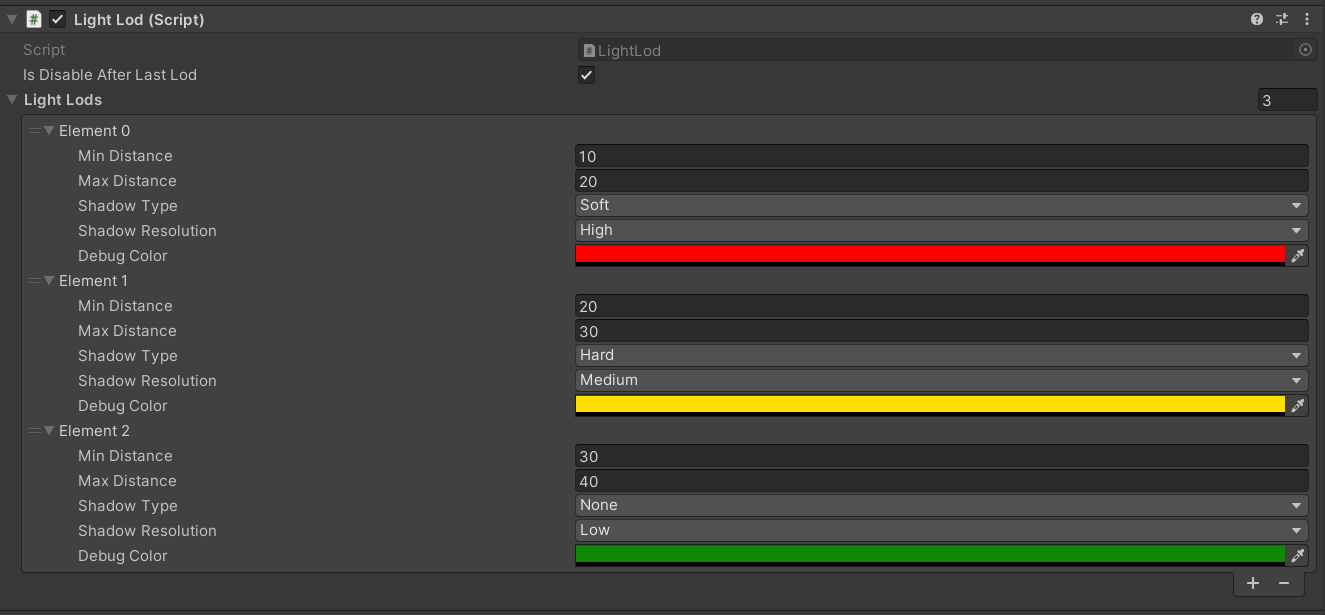
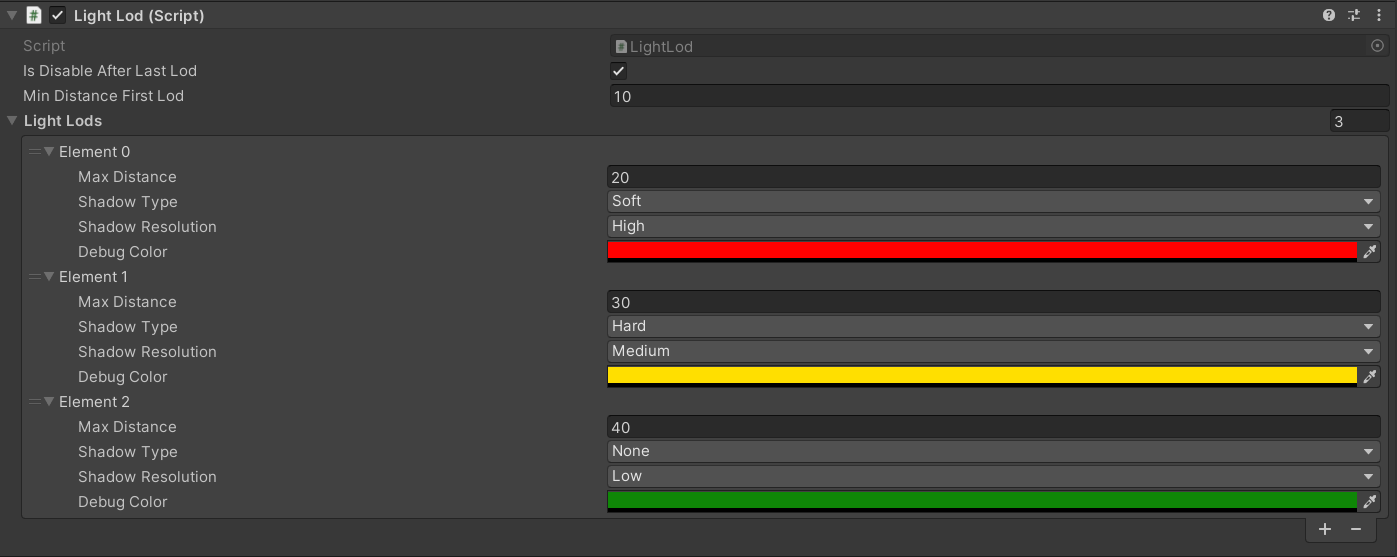
Caching default state of the light. Optimized a parameter (we can infer min distance from the previous max distance).

diff --git a/Runtime/LightLod.cs b/Runtime/LightLod.cs
@@ -8,6 +8,7 @@ namespace UnityLightsLodSystem.Runtime
     public class LightLod : MonoBehaviour
     {
         [SerializeField] public bool isDisableAfterLastLod = true;
+        [SerializeField] public float minDistanceFirstLod;
         [SerializeField] public LightLevelOfDetail[] lightLods;
 
         private Light _light;
@@ -15,6 +16,8 @@ namespace UnityLightsLodSystem.Runtime
         private Transform _transform;
         private int _lodCount;
         private bool _isLightCulled;
+        private float _minDistanceSqrFirstLod;
+        private LightLevelOfDetail _cachedLightSettings;
 
         public void UpdateLightOptimizations(Camera activeCamera, Transform cameraTransform)
         {
@@ -39,16 +42,30 @@ namespace UnityLightsLodSystem.Runtime
             var sqrDistance = TransformUtilities.GetSquaredDistanceFast(cameraTransform, _transform);
 
             // No light changes if the distance is less than determined by the LOD1
-            if (sqrDistance < lightLods[0].MinSqrDistance)
+            if (sqrDistance < _minDistanceSqrFirstLod)
             {
                 _light.enabled = true;
+                _light.shadows = _cachedLightSettings.shadowType;
+                _light.shadowResolution = _cachedLightSettings.shadowResolution;
+                    
+#if UNITY_EDITOR
+                // Change the color for debug purposes in the Unity Editor only
+                _light.color = _cachedLightSettings.debugColor;
+#endif
+                
                 return;
             }
-            
+
+            var previousLodMaxSquareDistance = _minDistanceSqrFirstLod;
             // Traversing and checking the LODs 1-X
             for (int i = 0; i < _lodCount; i++)
             {
-                if((sqrDistance >= lightLods[i].MinSqrDistance) && (sqrDistance < lightLods[i].MaxSqrDistance))
+                if (i > 0)
+                {
+                    previousLodMaxSquareDistance = lightLods[i - 1].MaxSqrDistance;
+                }
+                
+                if((sqrDistance >= previousLodMaxSquareDistance) && (sqrDistance < lightLods[i].MaxSqrDistance))
                 {
                     _light.enabled = true;
                     _light.shadows = lightLods[i].shadowType;
@@ -74,9 +91,9 @@ namespace UnityLightsLodSystem.Runtime
             _transform = _light.transform;
             _isLightCulled = false;
 
+            _minDistanceSqrFirstLod = minDistanceFirstLod * minDistanceFirstLod;
             foreach (var lightLevelOfDetail in lightLods)
             {
-                lightLevelOfDetail.MinSqrDistance = lightLevelOfDetail.minDistance * lightLevelOfDetail.minDistance;
                 lightLevelOfDetail.MaxSqrDistance = lightLevelOfDetail.maxDistance * lightLevelOfDetail.maxDistance;
             }
 
@@ -96,19 +113,25 @@ namespace UnityLightsLodSystem.Runtime
                 }
                     break;
             }
+
+            _cachedLightSettings = new LightLevelOfDetail()
+            {
+                maxDistance = minDistanceFirstLod,
+                shadowType = _light.shadows,
+                shadowResolution = _light.shadowResolution,
+                debugColor = _light.color
+            };
         }
     }
 
     [Serializable]
     public class LightLevelOfDetail
     {
-        [SerializeField] public float minDistance;
         [SerializeField] public float maxDistance;
         [SerializeField] public LightShadows shadowType;
         [SerializeField] public LightShadowResolution shadowResolution = LightShadowResolution.High;
         [SerializeField] public Color debugColor;
-
-        public float MinSqrDistance { get; set; }
+        
         public float MaxSqrDistance { get; set; }
     }
 }

diff --git a/CHANGELIST.md b/CHANGELIST.md
@@ -5,6 +5,25 @@ All notable changes to this project will be documented in this file.
 The format is based on [Keep a Changelog](https://keepachangelog.com/en/1.0.0/),
 and this project adheres to [Semantic Versioning](https://semver.org/spec/v2.0.0.html).
 
+## [1.0.2] - 2023-03-26
+
+### Added
+
+- N/A
+
+### Fixed
+
+- caching default state of the light
+
+### Changed
+
+- optimized a parameter (we can infer min from the previous max distance)
+
+### Removed
+
+- N/A
+
+
 ## [1.0.1] - 2023-03-26
 
 ### Added
@@ -22,6 +41,7 @@ and this project adheres to [Semantic Versioning](https://semver.org/spec/v2.0.0
 ### Removed
 
 - N/A
+
 
 ## [1.0.0] - 2023-03-26
 
@@ -42,5 +62,6 @@ and this project adheres to [Semantic Versioning](https://semver.org/spec/v2.0.0
 - N/A
 
 
+[1.0.2]: https://github.com/razluta/UnityLightsLodSystem/compare/v1.0.1...v1.0.2
 [1.0.1]: https://github.com/razluta/UnityLightsLodSystem/compare/v1.0.0...v1.0.1
 [1.0.0]: https://github.com/razluta/UnityLightsLodSystem/releases/tag/v1.0.0
